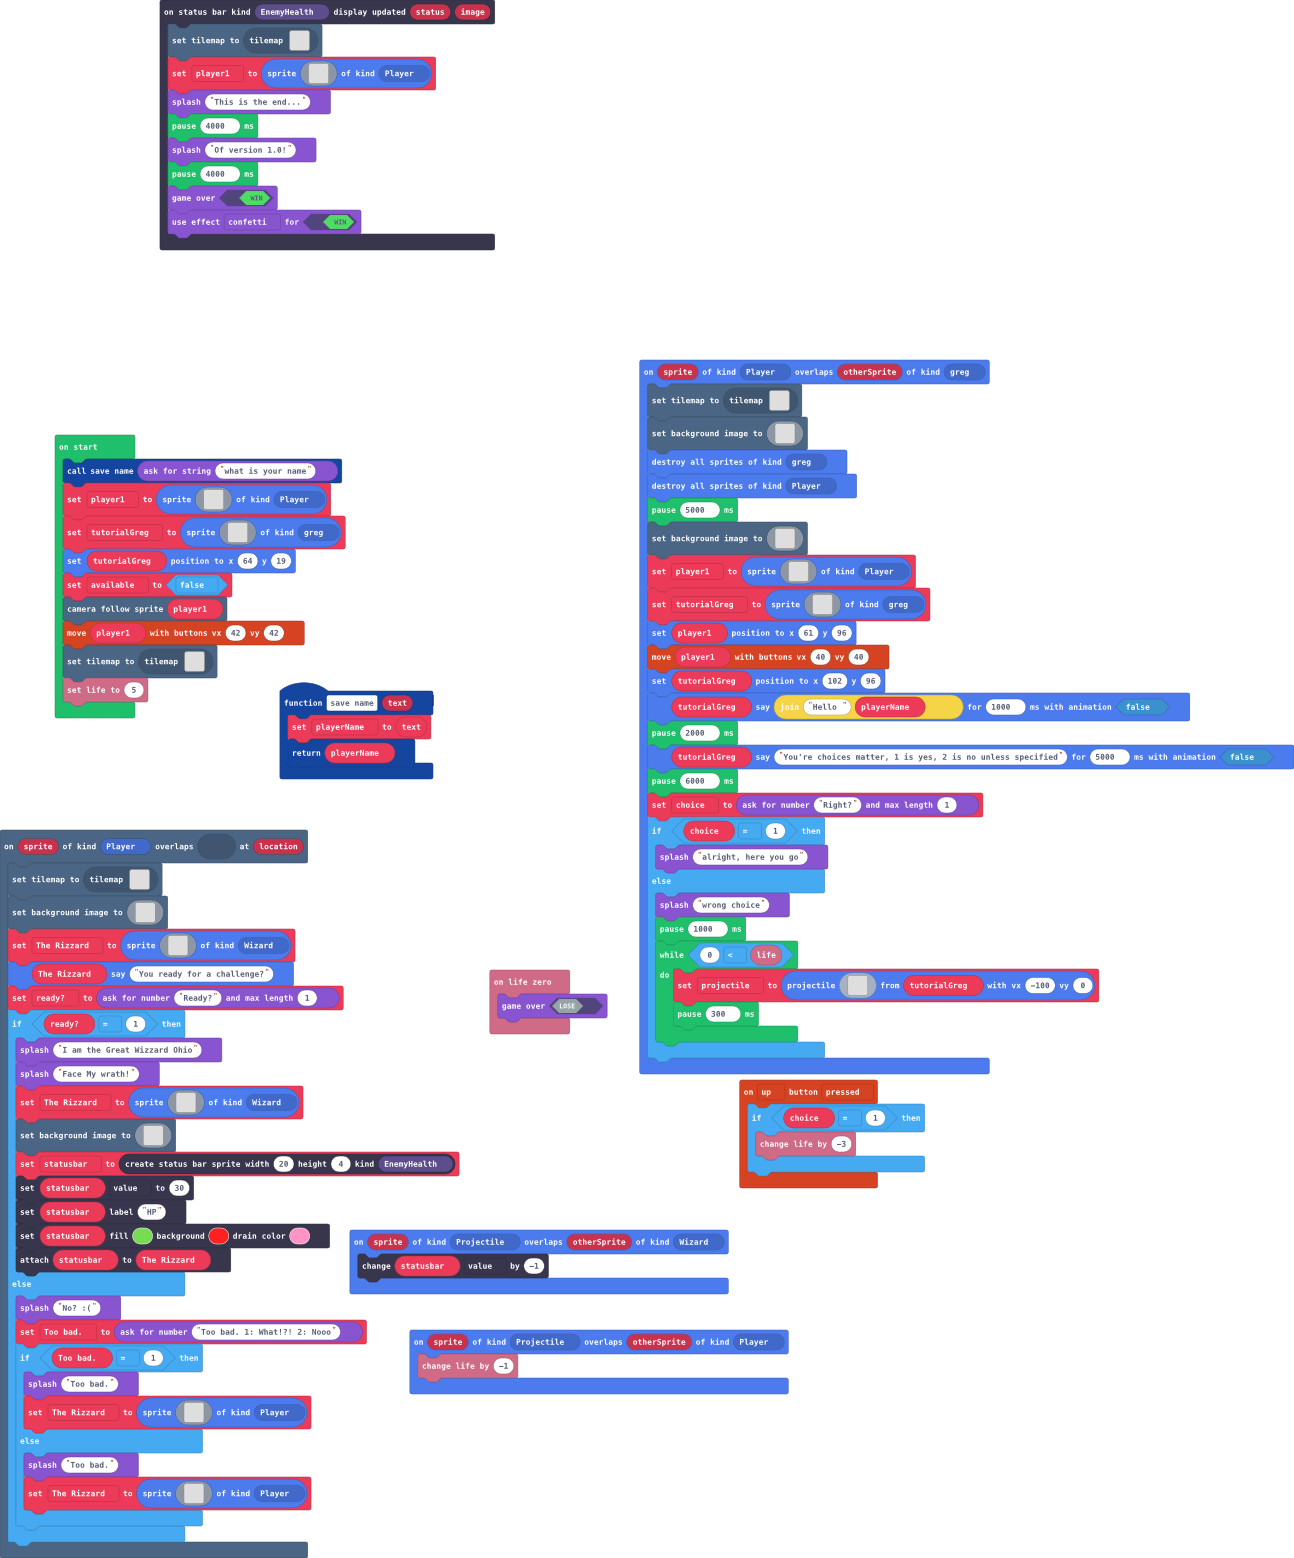
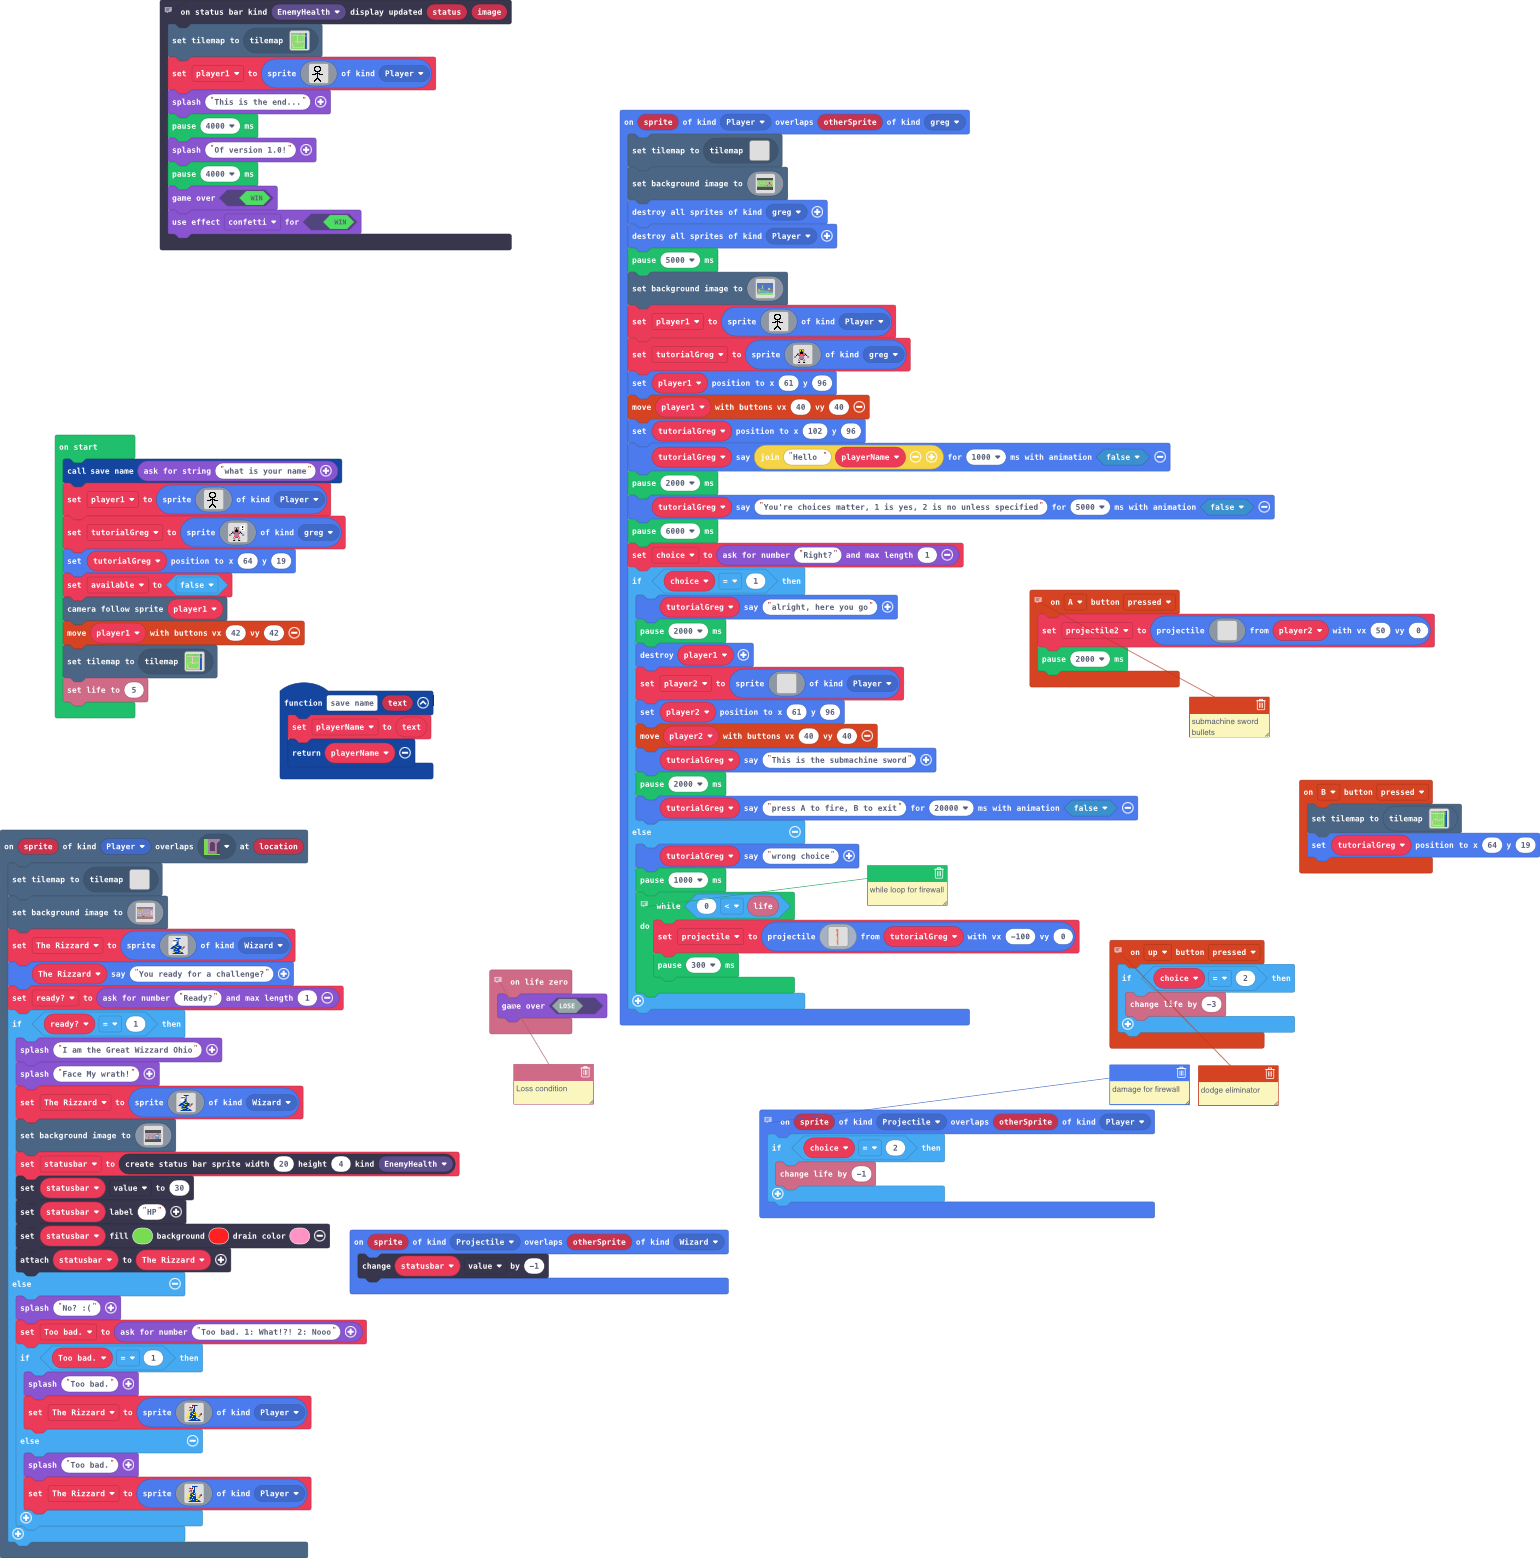
Update main.blocks, main.ts, tilemap.g.jres, tilemap.g.ts

Changed region(s): [[0.0, 0.0616, 1.0, 1.0], [0.0927, 0.0, 0.4019, 0.1849], [0.34, 0.1232, 0.3709, 0.1849]]

diff --git a/main.ts b/main.ts
@@ -2,6 +2,7 @@ namespace SpriteKind {
     export const greg = SpriteKind.create()
     export const Wizard = SpriteKind.create()
 }
+// ending
 statusbars.onDisplayUpdated(StatusBarKind.EnemyHealth, function (status, image2) {
     tiles.setCurrentTilemap(tilemap`level2`)
     player1 = sprites.create(img`
@@ -29,8 +30,9 @@ statusbars.onDisplayUpdated(StatusBarKind.EnemyHealth, function (status, image2)
     game.gameOver(true)
     game.setGameOverEffect(true, effects.confetti)
 })
+// dodge eliminator
 controller.up.onEvent(ControllerButtonEvent.Pressed, function () {
-    if (choice == 1) {
+    if (choice == 2) {
         info.changeLifeBy(-3)
     }
 })
@@ -331,10 +333,36 @@ sprites.onOverlap(SpriteKind.Player, SpriteKind.greg, function (sprite, otherSpr
     pause(6000)
     choice = game.askForNumber("Right?", 1)
     if (choice == 1) {
-        game.splash("alright, here you go")
+        tutorialGreg.sayText("alright, here you go")
+        pause(2000)
+        sprites.destroy(player1)
+        player2 = sprites.create(img`
+            . . . . . f f f f f . . . . . . . . 
+            . . . . f f . . . f f . . . . . . . 
+            . . . . f . . . . . f . . . . . . . 
+            . . . . f . . . . . f . . . . . . . 
+            . . . . f f . . . f f . . . . . . . 
+            . . . . . f f f f f . . . . . . . . 
+            . . . . . . . f . . . . . . . . . . 
+            . . . . . f f f f f . . e . . . . . 
+            . . f f f f . f . f f e e b b b b b 
+            . . . . . . . f . . . . e . . . . . 
+            . . . . . . . f . . . . . . . . . . 
+            . . . . . . . f . . . . . . . . . . 
+            . . . . . . f f f . . . . . . . . . 
+            . . . . . f f . f f . . . . . . . . 
+            . . . . f f . . . f f . . . . . . . 
+            . . . . f . . . . . f . . . . . . . 
+            `, SpriteKind.Player)
+        player2.setPosition(61, 96)
+        controller.moveSprite(player2, 40, 40)
+        tutorialGreg.sayText("This is the submachine sword")
+        pause(2000)
+        tutorialGreg.sayText("press A to fire, B to exit", 20000, false)
     } else {
-        game.splash("wrong choice")
+        tutorialGreg.sayText("wrong choice")
         pause(1000)
+        // while loop for firewall
         while (0 < info.life()) {
             projectile = sprites.createProjectileFromSprite(img`
                 ..442222222f2222
@@ -462,13 +490,43 @@ sprites.onOverlap(SpriteKind.Player, SpriteKind.greg, function (sprite, otherSpr
         }
     }
 })
+controller.B.onEvent(ControllerButtonEvent.Pressed, function () {
+    tiles.setCurrentTilemap(tilemap`level2`)
+    tutorialGreg.setPosition(64, 19)
+})
+// submachine sword bullets
+controller.A.onEvent(ControllerButtonEvent.Pressed, function () {
+    projectile2 = sprites.createProjectileFromSprite(img`
+        . . . . . . . . . . . . . . . . 
+        . . . . . . . . . . . . . . . . 
+        . . . . . . . . . . . . . . . . 
+        . . . . . . . . . . . . . . . . 
+        . . . . . . . . . . . . . . . . 
+        . 5 5 . 5 5 5 5 5 5 5 1 e e . . 
+        . . 5 5 5 5 5 5 5 5 5 1 e e e . 
+        . 5 5 . 5 5 5 5 5 5 5 1 e e e e 
+        . . 5 5 5 5 5 5 5 5 5 1 e e e e 
+        . 5 5 . 5 5 5 5 5 5 5 1 e e e e 
+        . . 5 5 5 5 5 5 5 5 5 1 e e e . 
+        . 5 5 . 5 5 5 5 5 5 5 1 e e . . 
+        . . . . . . . . . . . . . . . . 
+        . . . . . . . . . . . . . . . . 
+        . . . . . . . . . . . . . . . . 
+        . . . . . . . . . . . . . . . . 
+        `, player2, 50, 0)
+    pause(2000)
+})
+// damage for firewall
 sprites.onOverlap(SpriteKind.Projectile, SpriteKind.Player, function (sprite, otherSprite) {
-    info.changeLifeBy(-1)
+    if (choice == 2) {
+        info.changeLifeBy(-1)
+    }
 })
 function save_name (text: string) {
     playerName = text
     return playerName
 }
+// Loss condition
 info.onLifeZero(function () {
     game.gameOver(false)
 })
@@ -845,7 +903,9 @@ scene.onOverlapTile(SpriteKind.Player, assets.tile`myTile11`, function (sprite, 
 let Too_bad = 0
 let ready = 0
 let The_Rizzard: Sprite = null
+let projectile2: Sprite = null
 let projectile: Sprite = null
+let player2: Sprite = null
 let playerName = ""
 let statusbar: StatusBarSprite = null
 let choice = 0

diff --git a/tilemap.g.ts b/tilemap.g.ts
@@ -222,6 +222,63 @@ namespace myTiles {
 . . . . . . . . . . . . . . . . 
 . . . . . . . . . . . . . . . . 
 `, [myTiles.transparency16], TileScale.Sixteen);
+            case "level10":
+            case "level10":return tiles.createTilemap(hex`1000100000000000000000000000000000000000000000000000000000000000000000000000000000000000000000000000000000000000000000000000000000000000000000000000000000000000000000000000000000000000000000000000000000000000000000000000000000000000000000000000000000000000000000000000000000000000000000000000000000000000000000000000000000000000000000000000000000000000000000000000000000000000000000000000000000000000000000000000000000000000000000000000000000000000000000000000000000000000000000000000000000000000000000000000000000000000`, img`
+. . . . . . . . . . . . . . . . 
+. . . . . . . . . . . . . . . . 
+. . . . . . . . . . . . . . . . 
+. . . . . . . . . . . . . . . . 
+. . . . . . . . . . . . . . . . 
+. . . . . . . . . . . . . . . . 
+. . . . . . . . . . . . . . . . 
+. . . . . . . . . . . . . . . . 
+. . . . . . . . . . . . . . . . 
+. . . . . . . . . . . . . . . . 
+. . . . . . . . . . . . . . . . 
+. . . . . . . . . . . . . . . . 
+. . . . . . . . . . . . . . . . 
+. . . . . . . . . . . . . . . . 
+. . . . . . . . . . . . . . . . 
+. . . . . . . . . . . . . . . . 
+`, [myTiles.transparency16], TileScale.Sixteen);
+            case "level11":
+            case "level11":return tiles.createTilemap(hex`1000100000000000000000000000000000000000000000000000000000000000000000000000000000000000000000000000000000000000000000000000000000000000000000000000000000000000000000000000000000000000000000000000000000000000000000000000000000000000000000000000000000000000000000000000000000000000000000000000000000000000000000000000000000000000000000000000000000000000000000000000000000000000000000000000000000000000000000000000000000000000000000000000000000000000000000000000000000000000000000000000000000000000000000000000000000000000`, img`
+. . . . . . . . . . . . . . . . 
+. . . . . . . . . . . . . . . . 
+. . . . . . . . . . . . . . . . 
+. . . . . . . . . . . . . . . . 
+. . . . . . . . . . . . . . . . 
+. . . . . . . . . . . . . . . . 
+. . . . . . . . . . . . . . . . 
+. . . . . . . . . . . . . . . . 
+. . . . . . . . . . . . . . . . 
+. . . . . . . . . . . . . . . . 
+. . . . . . . . . . . . . . . . 
+. . . . . . . . . . . . . . . . 
+. . . . . . . . . . . . . . . . 
+. . . . . . . . . . . . . . . . 
+. . . . . . . . . . . . . . . . 
+. . . . . . . . . . . . . . . . 
+`, [myTiles.transparency16], TileScale.Sixteen);
+            case "level12":
+            case "level12":return tiles.createTilemap(hex`1000100000000000000000000000000000000000000000000000000000000000000000000000000000000000000000000000000000000000000000000000000000000000000000000000000000000000000000000000000000000000000000000000000000000000000000000000000000000000000000000000000000000000000000000000000000000000000000000000000000000000000000000000000000000000000000000000000000000000000000000000000000000000000000000000000000000000000000000000000000000000000000000000000000000000000000000000000000000000000000000000000000000000000000000000000000000000`, img`
+. . . . . . . . . . . . . . . . 
+. . . . . . . . . . . . . . . . 
+. . . . . . . . . . . . . . . . 
+. . . . . . . . . . . . . . . . 
+. . . . . . . . . . . . . . . . 
+. . . . . . . . . . . . . . . . 
+. . . . . . . . . . . . . . . . 
+. . . . . . . . . . . . . . . . 
+. . . . . . . . . . . . . . . . 
+. . . . . . . . . . . . . . . . 
+. . . . . . . . . . . . . . . . 
+. . . . . . . . . . . . . . . . 
+. . . . . . . . . . . . . . . . 
+. . . . . . . . . . . . . . . . 
+. . . . . . . . . . . . . . . . 
+. . . . . . . . . . . . . . . . 
+`, [myTiles.transparency16], TileScale.Sixteen);
         }
         return null;
     })
